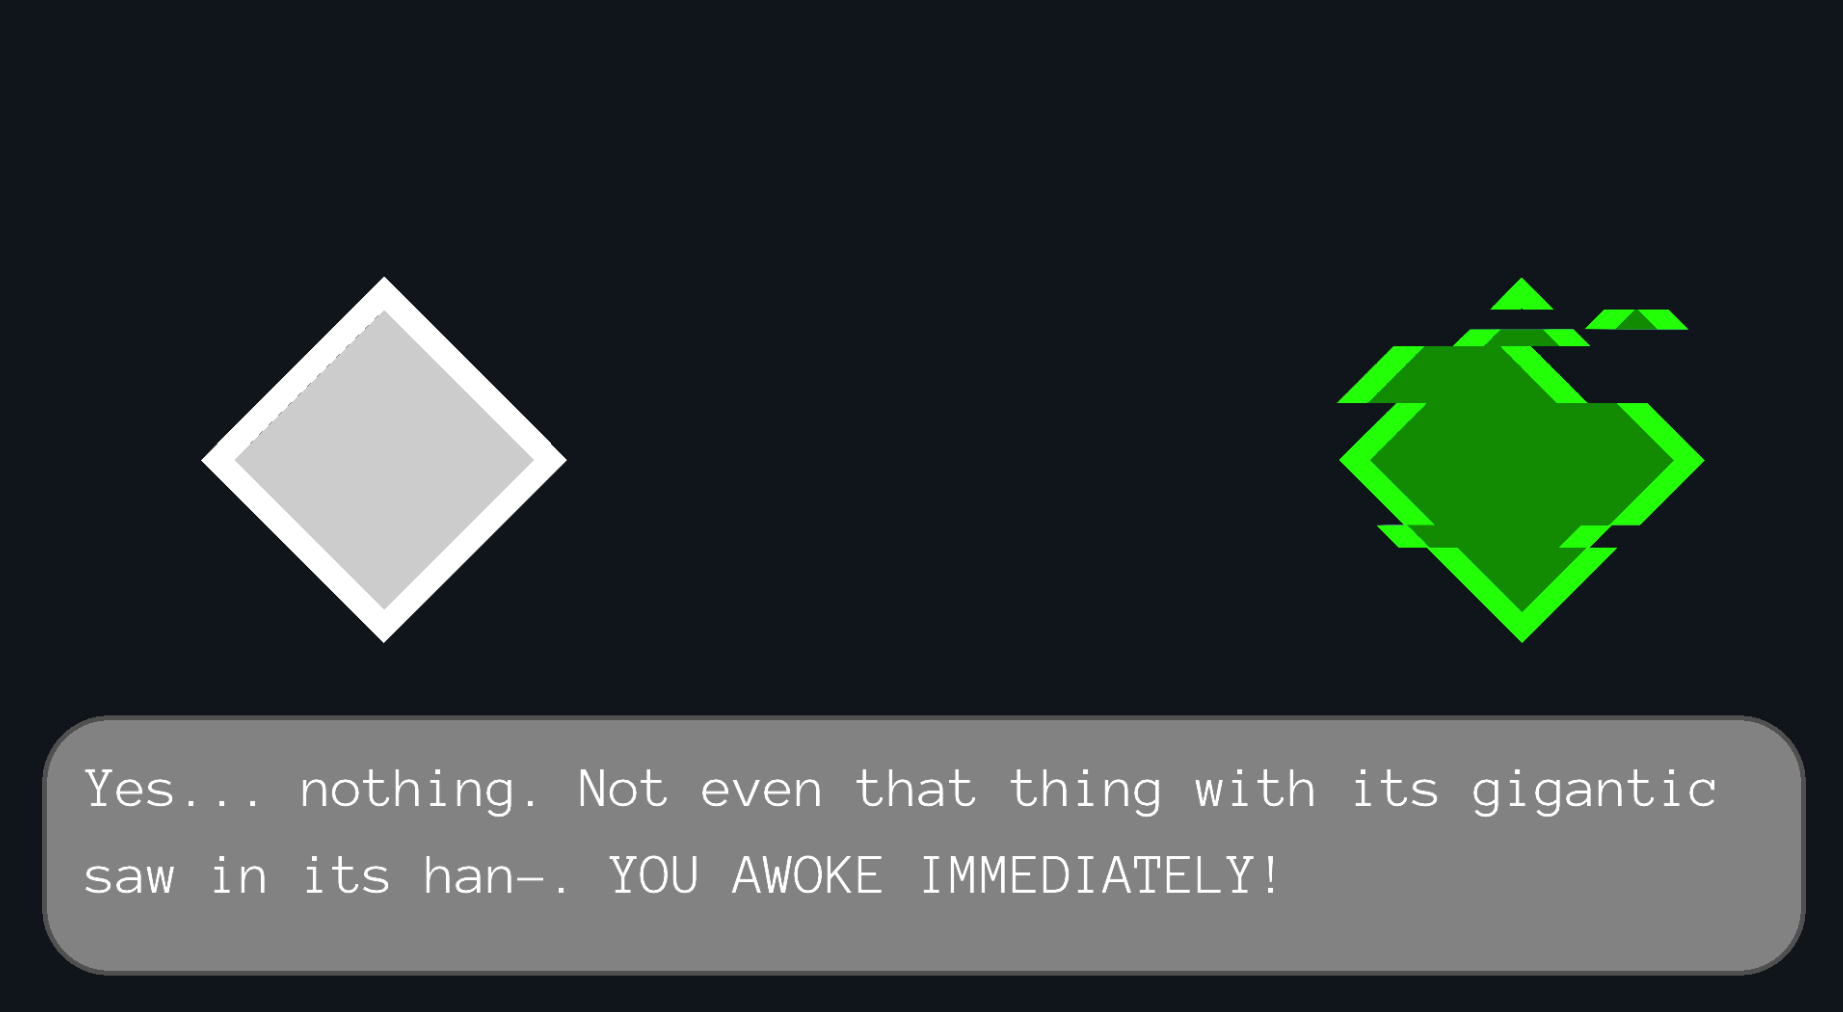
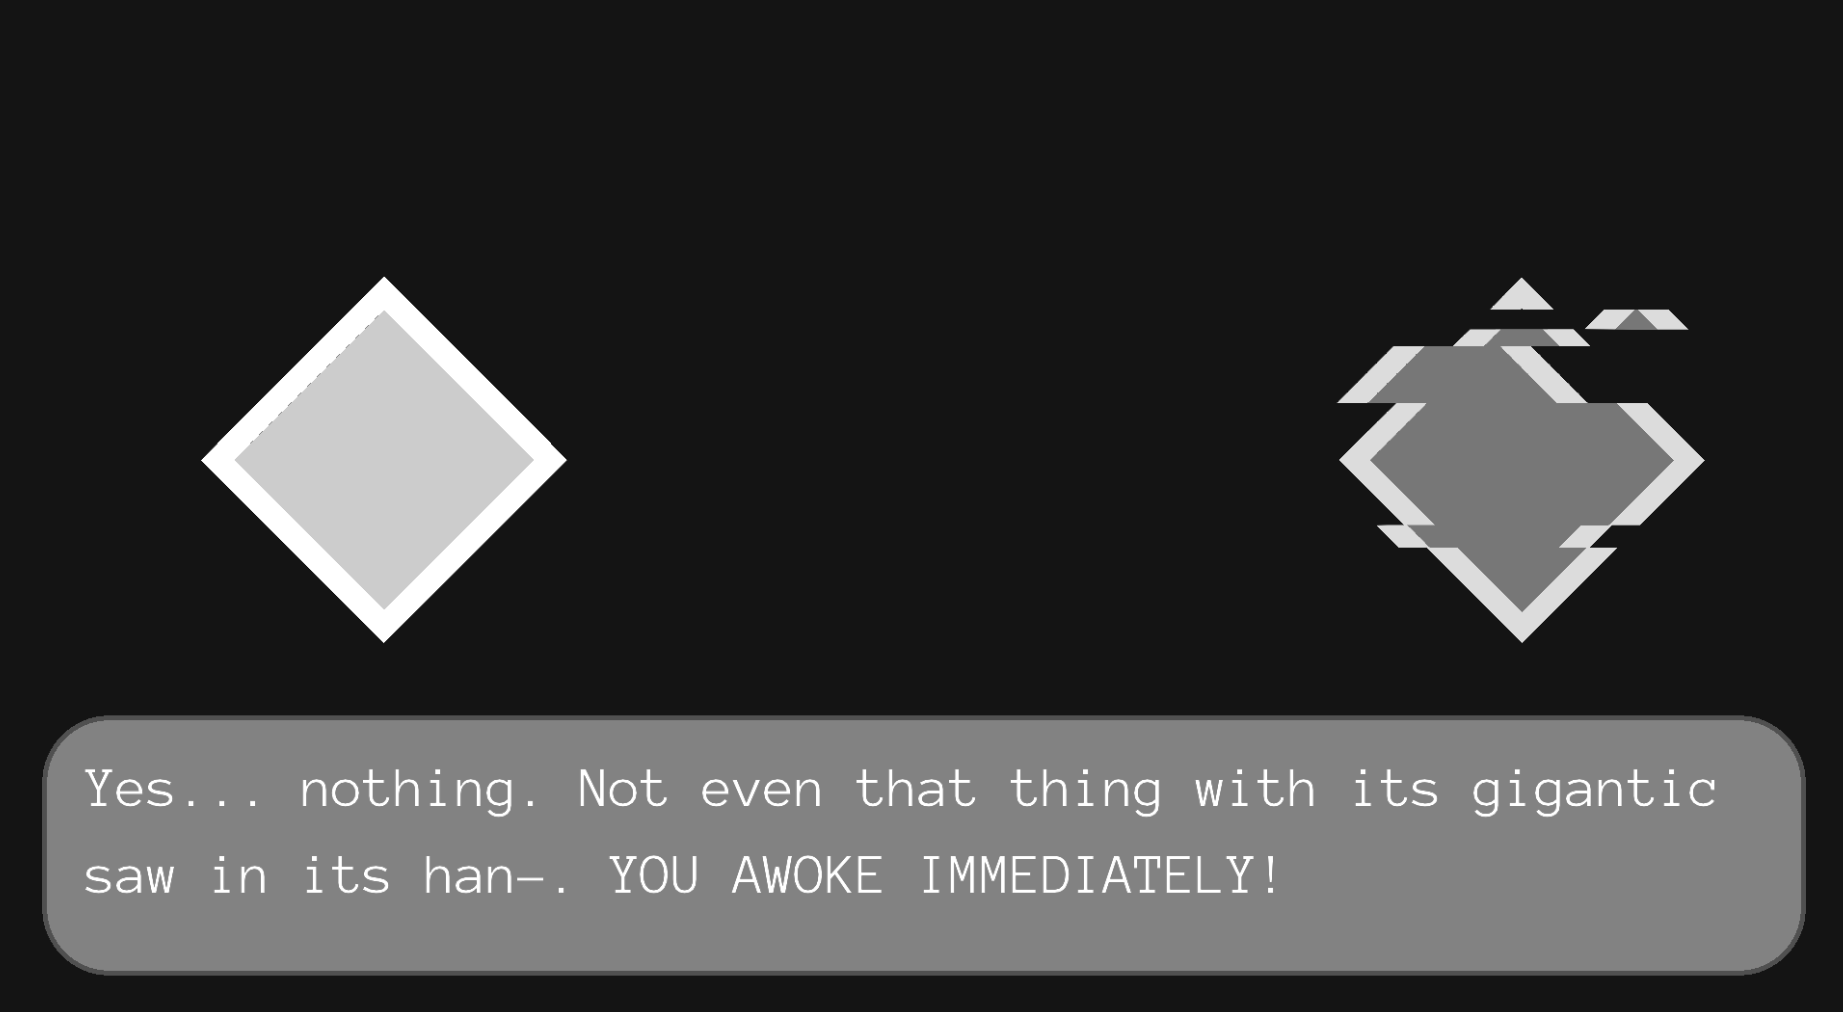
Added Chicky Graphs images

Changed region(s): [[0.7113, 0.2757, 0.9278, 0.6433]]

diff --git a/style.css b/style.css
@@ -151,7 +151,12 @@ div.game {
 }
 div.title {
     text-align: center;
-    color: #EDF0F1
+}
+#insert_name .title {
+    color: #EDF0F1;
+}
+#chicky_graphs .title {
+    color: #0F151B;
 }
 div.image img{
     display: block;
@@ -164,33 +169,11 @@ div.image img{
 
 #insert_name {
     background: url(assets/insert_name_screen.png) center center no-repeat;
-    filter: grayscale(100%); /* Current draft standard */
-    -webkit-filter: grayscale(100%); /* New WebKit */
-    -moz-filter: grayscale(100%);
-    -ms-filter: grayscale(100%); 
-    -o-filter: grayscale(100%); /* Not yet supported in Gecko, Opera or IE */ 
-    filter: url(resources.svg#desaturate); /* Gecko */
-    filter: gray; /* IE */
-    -webkit-filter: grayscale(1); /* Old WebKit */
-    -webkit-background-size: cover;
-    -moz-background-size: cover;
-    -o-background-size: cover;
     background-size: cover;
 }
 
-#chicky-graphs {
-    background:  url(assets/insert_name_screen.png) center center no-repeat;
-    filter: grayscale(100%); /* Current draft standard */
-    -webkit-filter: grayscale(100%); /* New WebKit */
-    -moz-filter: grayscale(100%);
-    -ms-filter: grayscale(100%); 
-    -o-filter: grayscale(100%); /* Not yet supported in Gecko, Opera or IE */ 
-    filter: url(resources.svg#desaturate); /* Gecko */
-    filter: gray; /* IE */
-    -webkit-filter: grayscale(1); /* Old WebKit */
-    -webkit-background-size: cover;
-    -moz-background-size: cover;
-    -o-background-size: cover;
+#chicky_graphs {
+    background:  url(assets/chicky_graphs_screen.png) center center no-repeat;
     background-size: cover;
 }
 

diff --git a/games.html b/games.html
@@ -57,9 +57,9 @@
             </div>
             <div class="item">
                 <a href="chicky_graphs.html">
-                    <div class="game" id="chicky-graphs">
+                    <div class="game" id="chicky_graphs">
                         <div class="title">
-                            <p>Chicky&#45;graph</p>
+                            <p>Chicky Graphs</p>
                         </div>
                         <div class="image">
                             <img src="assets/chicky-graphs.png" alt="Chicky Graphs"/>

diff --git a/index.html b/index.html
@@ -66,9 +66,9 @@
             </div>
             <div class="item">
                 <a href="chicky_graphs.html">
-                    <div class="game" id="chicky-graphs">
+                    <div class="game" id="chicky_graphs">
                         <div class="title">
-                            <p>Chicky&#45;graph</p>
+                            <p>Chicky Graphs</p>
                         </div>
                         <div class="image">
                             <img src="assets/chicky-graphs.png" alt="Chicky Graphs"/>
